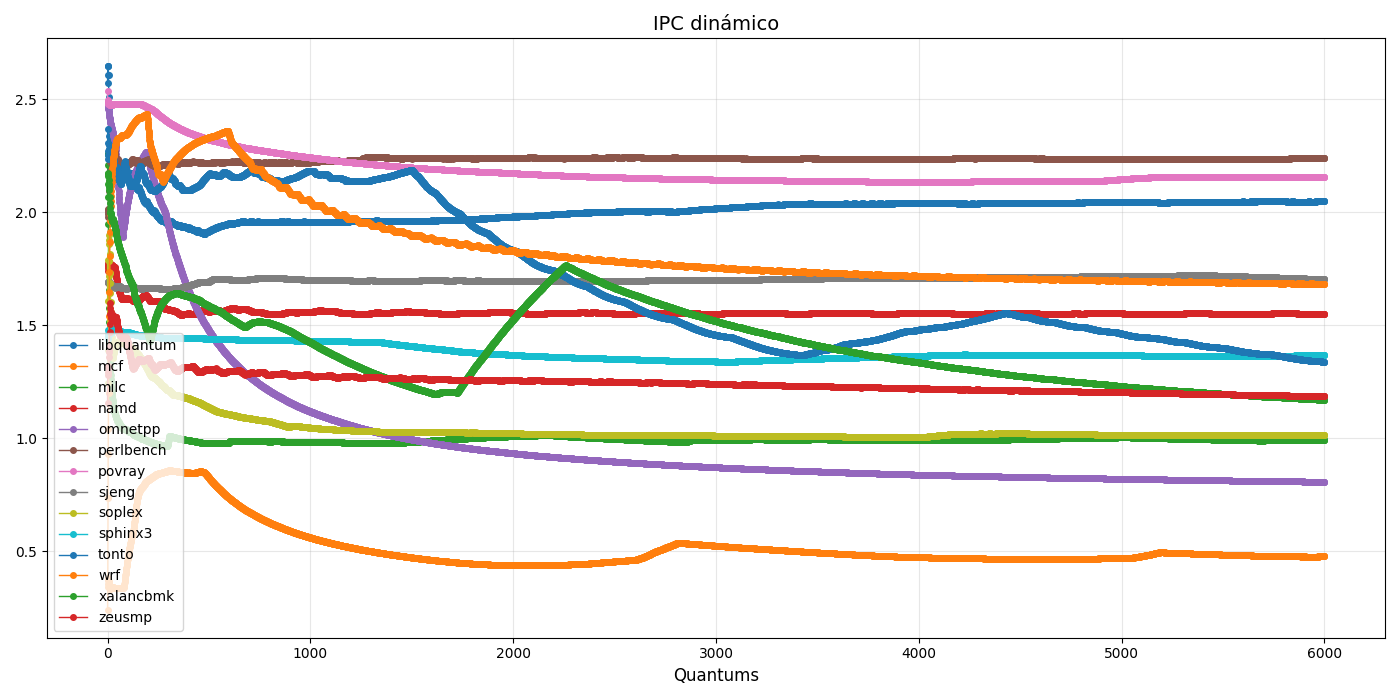
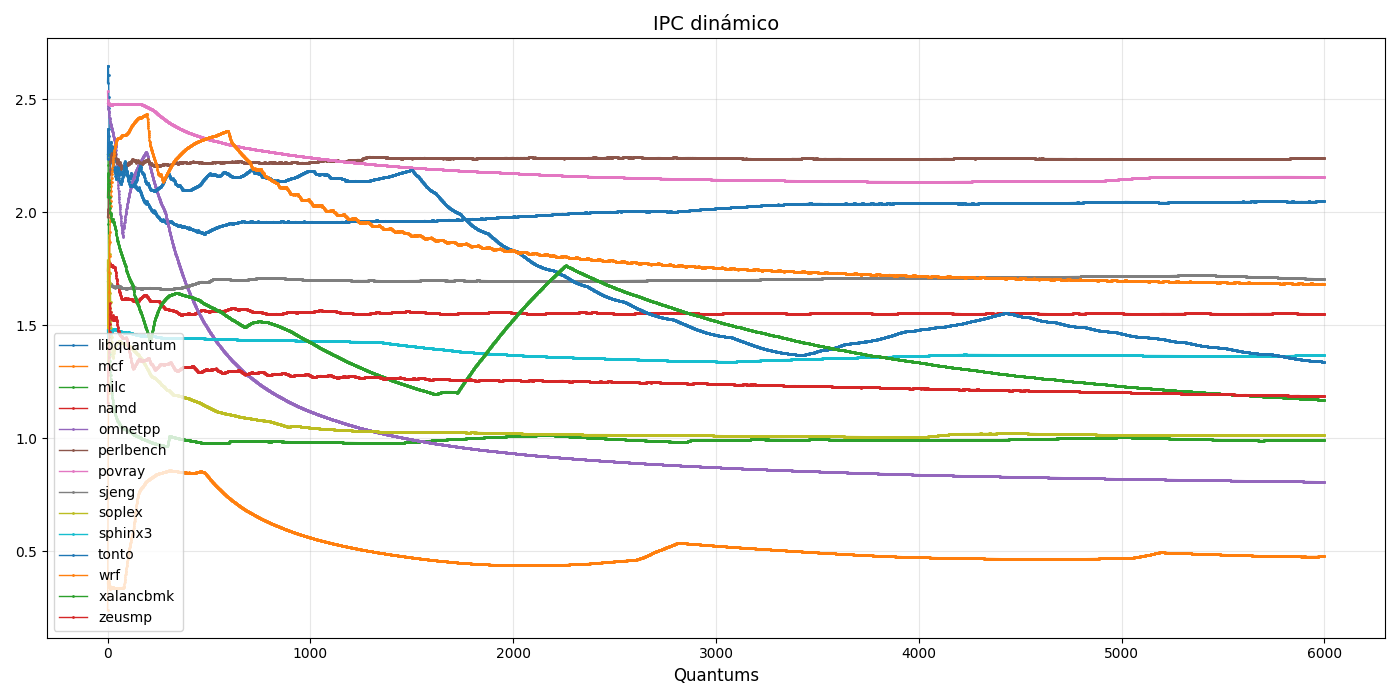
lineas finas

diff --git a/graficar.py b/graficar.py
@@ -50,7 +50,7 @@ def main():
             
             for app_name, ipc_values in data.items():
                 tiempo = np.arange(len(ipc_values))
-                plt.plot(tiempo, ipc_values, linewidth=1, marker='o', markersize=4, label=app_name)
+                plt.plot(tiempo, ipc_values, linewidth=1, marker='o', markersize=1, label=app_name)
             
             plt.xlabel('Quantums', fontsize=12)
             plt.title('IPC dinámico', fontsize=14)
